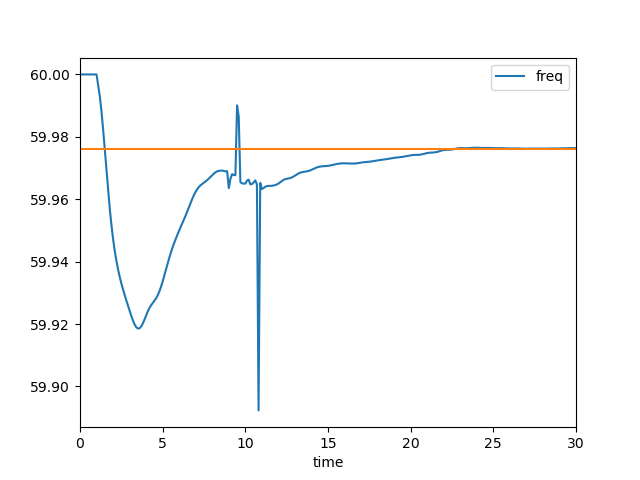
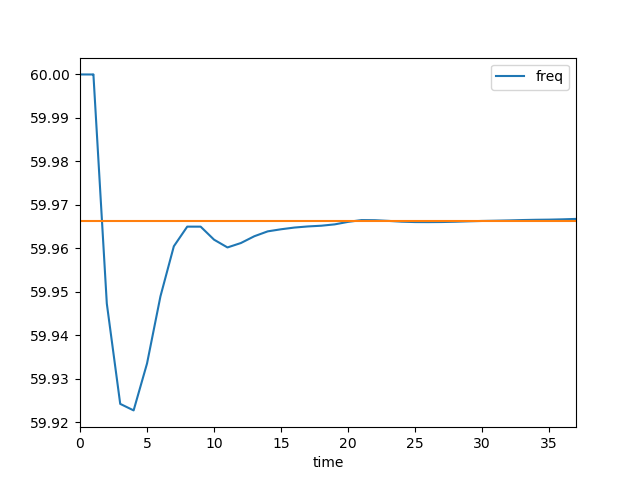
20240319

diff --git a/AGC/plot.py b/AGC/plot.py
@@ -46,7 +46,7 @@ for i in range(0, NDM*4+2):
 psspy.strt(0,outfile)
 psspy.run (0,  1, 1000, 1000, 0)
 psspy.dist_machine_trip(107, r"1")
-psspy.run (0, 30, 1000, 1000, 0)
+psspy.run (0, 37, 1000, 1000, 0)
 
 # ----------------------plot-------------------------
 chnfobj = dyntools.CHNF(outfile)
@@ -68,79 +68,79 @@ avg_arr = [avg for i in range(0, len(chandata['time']))]
 plt.plot   (chandata['time'], avg_arr, label=str(avg_arr[0]))
 print(avg_arr[0])
 
-# plt.savefig('after1.png')
-# print(chandata[5])
-for i in range(2, 5):
-    if i == 3:
-        continue
-    freq    = [f for f in chandata[i]]
-    plt.figure (i)
-    if i == 2:
-        plt.plot   (chandata['time'], freq, label='ACE')
-    if i == 4:
-        plt.plot   (chandata['time'], freq, label='AACt')    
-    plt.legend ()
-    plt.xlim   ([0,chandata['time'][-1]])
-    plt.xlabel ('time')
-
-#     # plt.savefig('ACE1590.png')
-#     # if i == 5:
-#     #     plt.savefig('reg.png')
-# for i in range(5, 9):
-#     if i == 5:
-#         freq1    = [f for f in chandata[4*(i-4)+2]]
-#         freq2    = [f for f in chandata[4*(i-4)+3]]
-#         freq3    = [f for f in chandata[4*(i-4)+4]]
-#         freq4    = [f for f in chandata[4*(i-4)+5]]
+plt.savefig('after1.png')
+# # print(chandata[5])
+# for i in range(2, 5):
+#     if i == 3:
+#         continue
+#     freq    = [f for f in chandata[i]]
 #     plt.figure (i)
-#     if i == 5:
-#         plt.plot   (chandata['time'], freq1, label='P(I)')
-#     if i == 6:    
-#         plt.plot   (chandata['time'], freq2, label='Preg(I)')
-#     if i == 7:
-#         plt.plot   (chandata['time'], freq3, label='GREF(I)')
-#     if i == 8:
-#         plt.plot   (chandata['time'], freq4, label='AAC(I)')
+#     if i == 2:
+#         plt.plot   (chandata['time'], freq, label='ACE')
+#     if i == 4:
+#         plt.plot   (chandata['time'], freq, label='AACt')    
 #     plt.legend ()
 #     plt.xlim   ([0,chandata['time'][-1]])
 #     plt.xlabel ('time')
-for i in range(5, NDM+5):
-    for j in range(0, 4):
-        freq    = [f for f in chandata[4*(i-4)+j+2]]
-        plt.figure (4*(i-4)+j+1)
-        if j == 0:
-            plt.plot   (chandata['time'], freq, label='P(I)')
-        if j == 1:    
-            plt.plot   (chandata['time'], freq, label='Preg(I)')
-        if j == 2:
-            plt.plot   (chandata['time'], freq, label='GREF(I)')
-        if j == 3:
-            plt.plot   (chandata['time'], freq, label='AAC(I)')
-        plt.legend ()
-        plt.xlim   ([0,chandata['time'][-1]])
-        plt.xlabel ('time')
-    # plt.savefig('ACE1590.png')
-    # if i == 5:
-    #     plt.savefig('reg.png')
-    # if i == 5:
-    #     AACT = freq3
-    # else:
-    #     for j in range(0, len(freq3)):
-    #         AACT[j] += freq3[j]
-    # if  i == NDM+5-1:
-    #     plt.figure (i+1)
-    #     plt.plot   (chandata['time'], AACT, label='AACT(I)')
-    #     plt.legend ()
-    #     plt.xlim   ([0,chandata['time'][-1]])
-    #     plt.xlabel ('time')
-for i in range(37, 38):
-    freq    = [f for f in chandata[i]]
-    plt.figure (i)
-    plt.plot   (chandata['time'], freq, label='freq')
-    plt.legend ()
-    plt.xlim   ([0,chandata['time'][-1]])
-    plt.xlabel ('time')
-    # plt.savefig('ACE1590.png')
-    # if i == 5:
-    #     plt.savefig('reg.png')
+
+# #     # plt.savefig('ACE1590.png')
+# #     # if i == 5:
+# #     #     plt.savefig('reg.png')
+# # for i in range(5, 9):
+# #     if i == 5:
+# #         freq1    = [f for f in chandata[4*(i-4)+2]]
+# #         freq2    = [f for f in chandata[4*(i-4)+3]]
+# #         freq3    = [f for f in chandata[4*(i-4)+4]]
+# #         freq4    = [f for f in chandata[4*(i-4)+5]]
+# #     plt.figure (i)
+# #     if i == 5:
+# #         plt.plot   (chandata['time'], freq1, label='P(I)')
+# #     if i == 6:    
+# #         plt.plot   (chandata['time'], freq2, label='Preg(I)')
+# #     if i == 7:
+# #         plt.plot   (chandata['time'], freq3, label='GREF(I)')
+# #     if i == 8:
+# #         plt.plot   (chandata['time'], freq4, label='AAC(I)')
+# #     plt.legend ()
+# #     plt.xlim   ([0,chandata['time'][-1]])
+# #     plt.xlabel ('time')
+# for i in range(5, NDM+5):
+#     for j in range(0, 4):
+#         freq    = [f for f in chandata[4*(i-4)+j+1]]
+#         plt.figure (4*(i-4)+j+1)
+#         if j == 0:
+#             plt.plot   (chandata['time'], freq, label='P(I)')
+#         if j == 1:    
+#             plt.plot   (chandata['time'], freq, label='Preg(I)')
+#         if j == 2:
+#             plt.plot   (chandata['time'], freq, label='GREF(I)')
+#         if j == 3:
+#             plt.plot   (chandata['time'], freq, label='AAC(I)')
+#         plt.legend ()
+#         plt.xlim   ([0,chandata['time'][-1]])
+#         plt.xlabel ('time')
+#     # plt.savefig('ACE1590.png')
+#     # if i == 5:
+#     #     plt.savefig('reg.png')
+#     # if i == 5:
+#     #     AACT = freq3
+#     # else:
+#     #     for j in range(0, len(freq3)):
+#     #         AACT[j] += freq3[j]
+#     # if  i == NDM+5-1:
+#     #     plt.figure (i+1)
+#     #     plt.plot   (chandata['time'], AACT, label='AACT(I)')
+#     #     plt.legend ()
+#     #     plt.xlim   ([0,chandata['time'][-1]])
+#     #     plt.xlabel ('time')
+# for i in range(37, 38):
+#     freq    = [f for f in chandata[i]]
+#     plt.figure (i)
+#     plt.plot   (chandata['time'], freq, label='freq')
+#     plt.legend ()
+#     plt.xlim   ([0,chandata['time'][-1]])
+#     plt.xlabel ('time')
+#     # plt.savefig('ACE1590.png')
+#     # if i == 5:
+#     #     plt.savefig('reg.png')
 plt.show   ()
